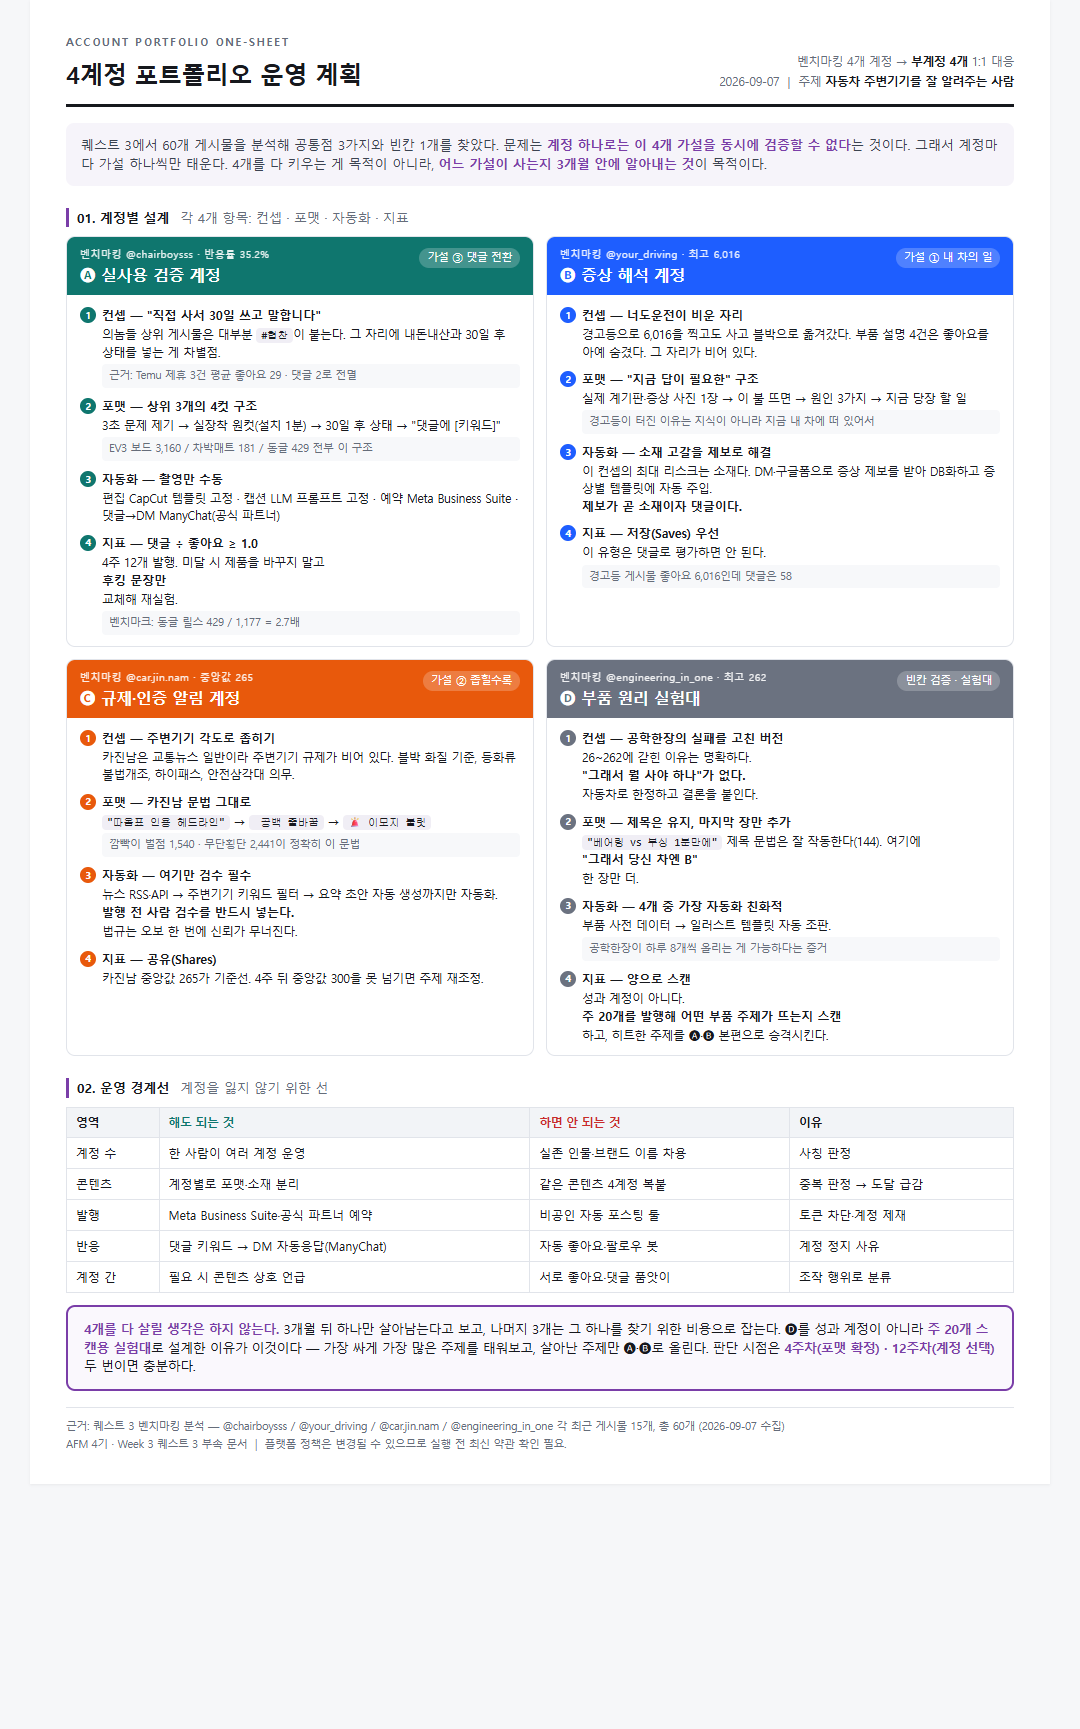
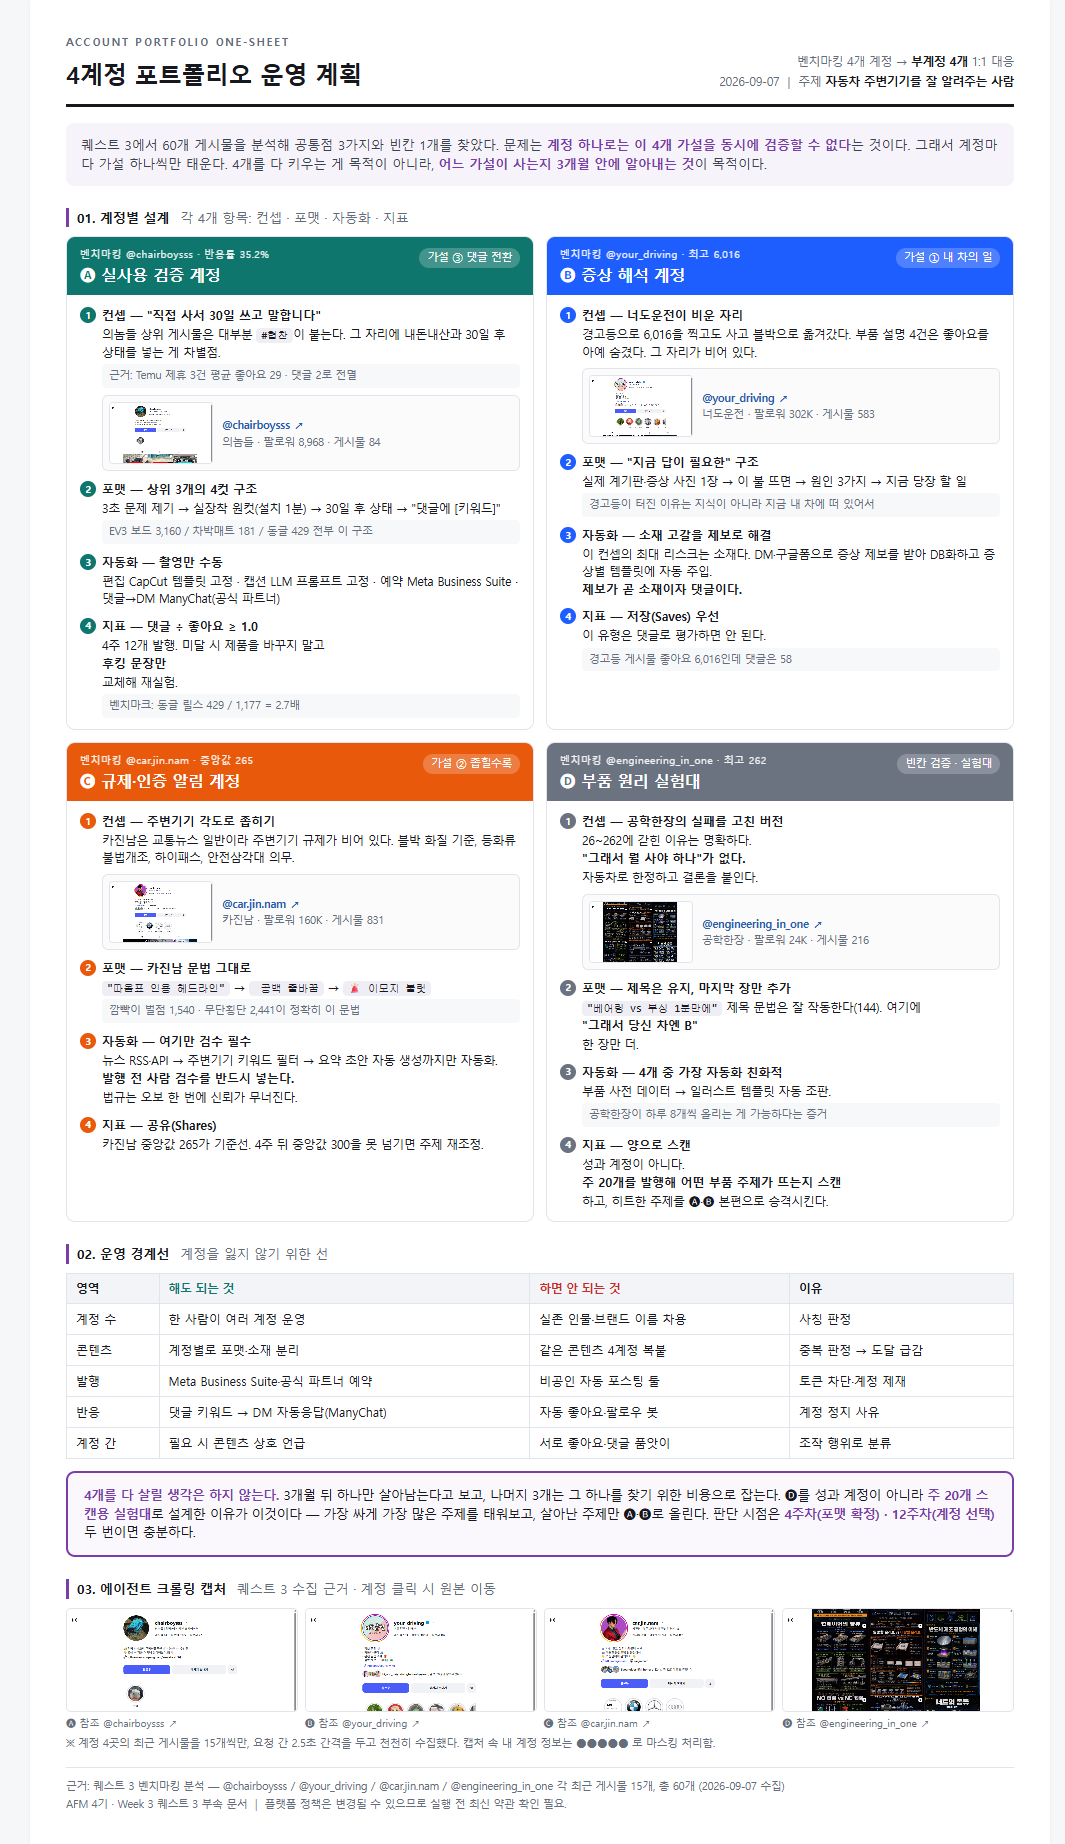
feat: quest3 리포트에 참조 계정 썸네일과 원본 링크 추가
운영계획 각 계정 01번 항목에 크롤링 캡처 썸네일과 인스타 링크를 넣고,
하단에 크롤링 캡처 섹션을 추가. 본 리포트 캡처에도 계정 링크 연결.

Changed region(s): [[0.062, 0.0, 0.9606, 0.9994], [0.6197, 0.937, 0.6817, 0.9682]]

diff --git a/afm-4th/week-3/quest/03.인스타-벤치마킹-기획안/운영계획.html b/afm-4th/week-3/quest/03.인스타-벤치마킹-기획안/운영계획.html
@@ -50,6 +50,23 @@
   .acct li b{display:block;font-size:12px;margin-bottom:2px}
   .acct .ev{display:block;margin-top:3px;font-size:10.5px;color:var(--sub);
     background:#f7f8fa;border-radius:4px;padding:4px 7px}
+  .ref{display:flex;align-items:center;gap:9px;margin:7px 0 4px;padding:6px;
+    border:1px solid var(--line);border-radius:6px;background:#fbfbfc;
+    text-decoration:none;color:inherit}
+  .ref img{width:104px;height:62px;object-fit:cover;object-position:top center;
+    border:1px solid var(--line);border-radius:4px;display:block;flex:none}
+  .ref .h{font-size:11.5px;font-weight:700;line-height:1.35}
+  .ref .h .u{color:#2a5db0}
+  .ref .h span{display:block;font-weight:400;font-size:10.5px;color:var(--sub);margin-top:2px}
+
+  .shots{display:grid;grid-template-columns:repeat(4,1fr);gap:7px}
+  .shots figure{margin:0}
+  .shots img{width:100%;height:104px;object-fit:cover;object-position:top center;
+    border:1px solid var(--line);border-radius:5px;display:block}
+  .shots figcaption{font-size:10px;color:var(--sub);margin-top:3px}
+  .shots a{text-decoration:none;color:var(--sub)}
+  .note{font-size:10.5px;color:var(--sub);margin:6px 0 0}
+
   code{background:#f0eef5;border-radius:4px;padding:1px 5px;font-size:10.5px;
     font-family:ui-monospace,Menlo,Consolas,monospace}
 
@@ -70,6 +87,7 @@
     header{flex-direction:column;align-items:flex-start}
     .meta{text-align:left;white-space:normal}
     .accts{grid-template-columns:1fr}
+    .shots{grid-template-columns:repeat(2,1fr)}
     .scroll{overflow-x:auto}
   }
   @media print{body{background:#fff}.sheet{box-shadow:none;padding:0;max-width:none}}
@@ -102,7 +120,8 @@
       <ol>
         <li><b>컨셉 — "직접 사서 30일 쓰고 말합니다"</b>
           의놈들 상위 게시물은 대부분 <code>#협찬</code>이 붙는다. 그 자리에 내돈내산과 30일 후 상태를 넣는 게 차별점.
-          <span class="ev">근거: Temu 제휴 3건 평균 좋아요 29 · 댓글 2로 전멸</span></li>
+          <span class="ev">근거: Temu 제휴 3건 평균 좋아요 29 · 댓글 2로 전멸</span>
+          <a class="ref" href="https://www.instagram.com/chairboysss/" target="_blank" rel="noopener"><img src="shots/01-chairboysss.png" alt="@chairboysss 프로필 캡처"><span class="h"><span class="u" style="display:inline;font-weight:700">@chairboysss ↗</span><span>의놈들 · 팔로워 8,968 · 게시물 84</span></span></a></li>
         <li><b>포맷 — 상위 3개의 4컷 구조</b>
           3초 문제 제기 → 실장착 원컷(설치 1분) → 30일 후 상태 → "댓글에 [키워드]"
           <span class="ev">EV3 보드 3,160 / 차박매트 181 / 동글 429 전부 이 구조</span></li>
@@ -122,7 +141,8 @@
     <div class="bd">
       <ol>
         <li><b>컨셉 — 너도운전이 비운 자리</b>
-          경고등으로 6,016을 찍고도 사고 블박으로 옮겨갔다. 부품 설명 4건은 좋아요를 아예 숨겼다. 그 자리가 비어 있다.</li>
+          경고등으로 6,016을 찍고도 사고 블박으로 옮겨갔다. 부품 설명 4건은 좋아요를 아예 숨겼다. 그 자리가 비어 있다.
+          <a class="ref" href="https://www.instagram.com/your_driving/" target="_blank" rel="noopener"><img src="shots/02-your-driving.png" alt="@your_driving 프로필 캡처"><span class="h"><span class="u" style="display:inline;font-weight:700">@your_driving ↗</span><span>너도운전 · 팔로워 302K · 게시물 583</span></span></a></li>
         <li><b>포맷 — "지금 답이 필요한" 구조</b>
           실제 계기판·증상 사진 1장 → 이 불 뜨면 → 원인 3가지 → 지금 당장 할 일
           <span class="ev">경고등이 터진 이유는 지식이 아니라 지금 내 차에 떠 있어서</span></li>
@@ -142,7 +162,8 @@
     <div class="bd">
       <ol>
         <li><b>컨셉 — 주변기기 각도로 좁히기</b>
-          카진남은 교통뉴스 일반이라 주변기기 규제가 비어 있다. 블박 화질 기준, 등화류 불법개조, 하이패스, 안전삼각대 의무.</li>
+          카진남은 교통뉴스 일반이라 주변기기 규제가 비어 있다. 블박 화질 기준, 등화류 불법개조, 하이패스, 안전삼각대 의무.
+          <a class="ref" href="https://www.instagram.com/car.jin.nam/" target="_blank" rel="noopener"><img src="shots/03-car-jin-nam.png" alt="@car.jin.nam 프로필 캡처"><span class="h"><span class="u" style="display:inline;font-weight:700">@car.jin.nam ↗</span><span>카진남 · 팔로워 160K · 게시물 831</span></span></a></li>
         <li><b>포맷 — 카진남 문법 그대로</b>
           <code>"따옴표 인용 헤드라인"</code> → <code> 공백 줄바꿈</code> → <code>🚨 이모지 불릿</code>
           <span class="ev">깜빡이 벌점 1,540 · 무단횡단 2,441이 정확히 이 문법</span></li>
@@ -161,7 +182,8 @@
     <div class="bd">
       <ol>
         <li><b>컨셉 — 공학한장의 실패를 고친 버전</b>
-          26~262에 갇힌 이유는 명확하다. <b>"그래서 뭘 사야 하나"가 없다.</b> 자동차로 한정하고 결론을 붙인다.</li>
+          26~262에 갇힌 이유는 명확하다. <b>"그래서 뭘 사야 하나"가 없다.</b> 자동차로 한정하고 결론을 붙인다.
+          <a class="ref" href="https://www.instagram.com/engineering_in_one/" target="_blank" rel="noopener"><img src="shots/04-engineering-in-one.png" alt="@engineering_in_one 프로필 캡처"><span class="h"><span class="u" style="display:inline;font-weight:700">@engineering_in_one ↗</span><span>공학한장 · 팔로워 24K · 게시물 216</span></span></a></li>
         <li><b>포맷 — 제목은 유지, 마지막 장만 추가</b>
           <code>"베어링 vs 부싱 1분만에"</code> 제목 문법은 잘 작동한다(144). 여기에 <b>"그래서 당신 차엔 B"</b> 한 장만 더.</li>
         <li><b>자동화 — 4개 중 가장 자동화 친화적</b>
@@ -195,6 +217,15 @@
   🅓를 성과 계정이 아니라 <b>주 20개 스캔용 실험대</b>로 설계한 이유가 이것이다 — 가장 싸게 가장 많은 주제를 태워보고, 살아난 주제만 🅐·🅑로 올린다.
   판단 시점은 <b>4주차(포맷 확정) · 12주차(계정 선택)</b> 두 번이면 충분하다.
 </div>
+
+<h2>03. 에이전트 크롤링 캡처 <em>퀘스트 3 수집 근거 · 계정 클릭 시 원본 이동</em></h2>
+<div class="shots">
+  <figure><a href="https://www.instagram.com/chairboysss/" target="_blank" rel="noopener"><img src="shots/01-chairboysss.png" alt="@chairboysss"><figcaption>🅐 참조 @chairboysss ↗</figcaption></a></figure>
+  <figure><a href="https://www.instagram.com/your_driving/" target="_blank" rel="noopener"><img src="shots/02-your-driving.png" alt="@your_driving"><figcaption>🅑 참조 @your_driving ↗</figcaption></a></figure>
+  <figure><a href="https://www.instagram.com/car.jin.nam/" target="_blank" rel="noopener"><img src="shots/03-car-jin-nam.png" alt="@car.jin.nam"><figcaption>🅒 참조 @car.jin.nam ↗</figcaption></a></figure>
+  <figure><a href="https://www.instagram.com/engineering_in_one/" target="_blank" rel="noopener"><img src="shots/04-engineering-in-one.png" alt="@engineering_in_one"><figcaption>🅓 참조 @engineering_in_one ↗</figcaption></a></figure>
+</div>
+<p class="note">※ 계정 4곳의 최근 게시물을 15개씩만, 요청 간 2.5초 간격을 두고 천천히 수집했다. 캡처 속 내 계정 정보는 ●●●●● 로 마스킹 처리함.</p>
 
 <footer>
   근거: 퀘스트 3 벤치마킹 분석 — @chairboysss / @your_driving / @car.jin.nam / @engineering_in_one 각 최근 게시물 15개, 총 60개 (2026-09-07 수집)<br>

diff --git a/afm-4th/week-3/quest/03.인스타-벤치마킹-기획안/index.html b/afm-4th/week-3/quest/03.인스타-벤치마킹-기획안/index.html
@@ -66,6 +66,7 @@
   .shots img{width:100%;height:96px;object-fit:cover;object-position:top center;
     border:1px solid var(--line);border-radius:5px;display:block}
   .shots figcaption{font-size:10px;color:var(--sub);margin-top:3px}
+  .shots a{text-decoration:none;color:var(--sub)}
 
   footer{margin-top:16px;padding-top:10px;border-top:1px solid var(--line);
     font-size:10.5px;color:var(--sub);line-height:1.7}
@@ -202,10 +203,10 @@
 
 <h2>05. 에이전트 브라우징 기록</h2>
 <div class="shots">
-  <figure><img src="shots/01-chairboysss.png" alt="의놈들"><figcaption>① @chairboysss (8,968)</figcaption></figure>
-  <figure><img src="shots/02-your-driving.png" alt="너도운전"><figcaption>② @your_driving (302K)</figcaption></figure>
-  <figure><img src="shots/03-car-jin-nam.png" alt="카진남"><figcaption>③ @car.jin.nam (160K)</figcaption></figure>
-  <figure><img src="shots/04-engineering-in-one.png" alt="공학한장"><figcaption>④ @engineering_in_one (24K)</figcaption></figure>
+  <figure><a href="https://www.instagram.com/chairboysss/" target="_blank" rel="noopener"><img src="shots/01-chairboysss.png" alt="의놈들"><figcaption>① @chairboysss (8,968) ↗</figcaption></a></figure>
+  <figure><a href="https://www.instagram.com/your_driving/" target="_blank" rel="noopener"><img src="shots/02-your-driving.png" alt="너도운전"><figcaption>② @your_driving (302K) ↗</figcaption></a></figure>
+  <figure><a href="https://www.instagram.com/car.jin.nam/" target="_blank" rel="noopener"><img src="shots/03-car-jin-nam.png" alt="카진남"><figcaption>③ @car.jin.nam (160K) ↗</figcaption></a></figure>
+  <figure><a href="https://www.instagram.com/engineering_in_one/" target="_blank" rel="noopener"><img src="shots/04-engineering-in-one.png" alt="공학한장"><figcaption>④ @engineering_in_one (24K) ↗</figcaption></a></figure>
 </div>
 <p class="note">※ 계정 4곳의 최근 게시물을 15개씩만, 요청 간 2.5초 간격을 두고 천천히 수집했다. 캡처 속 내 계정 정보는 ●●●●● 로 마스킹 처리함. 좋아요·댓글 수는 게시물 메타데이터 기준.</p>
 
